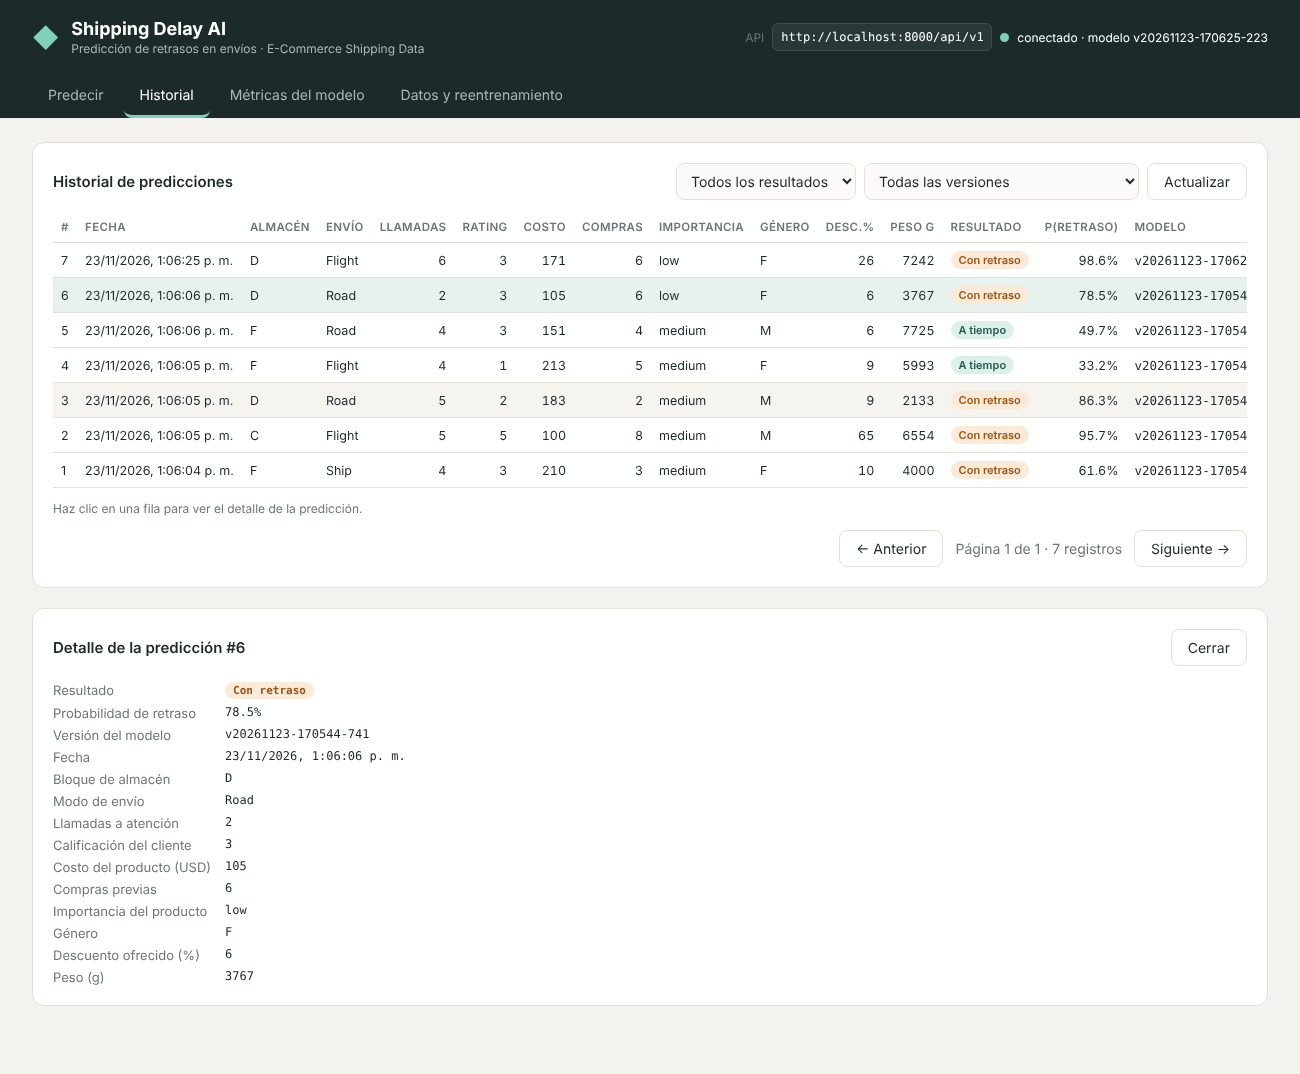
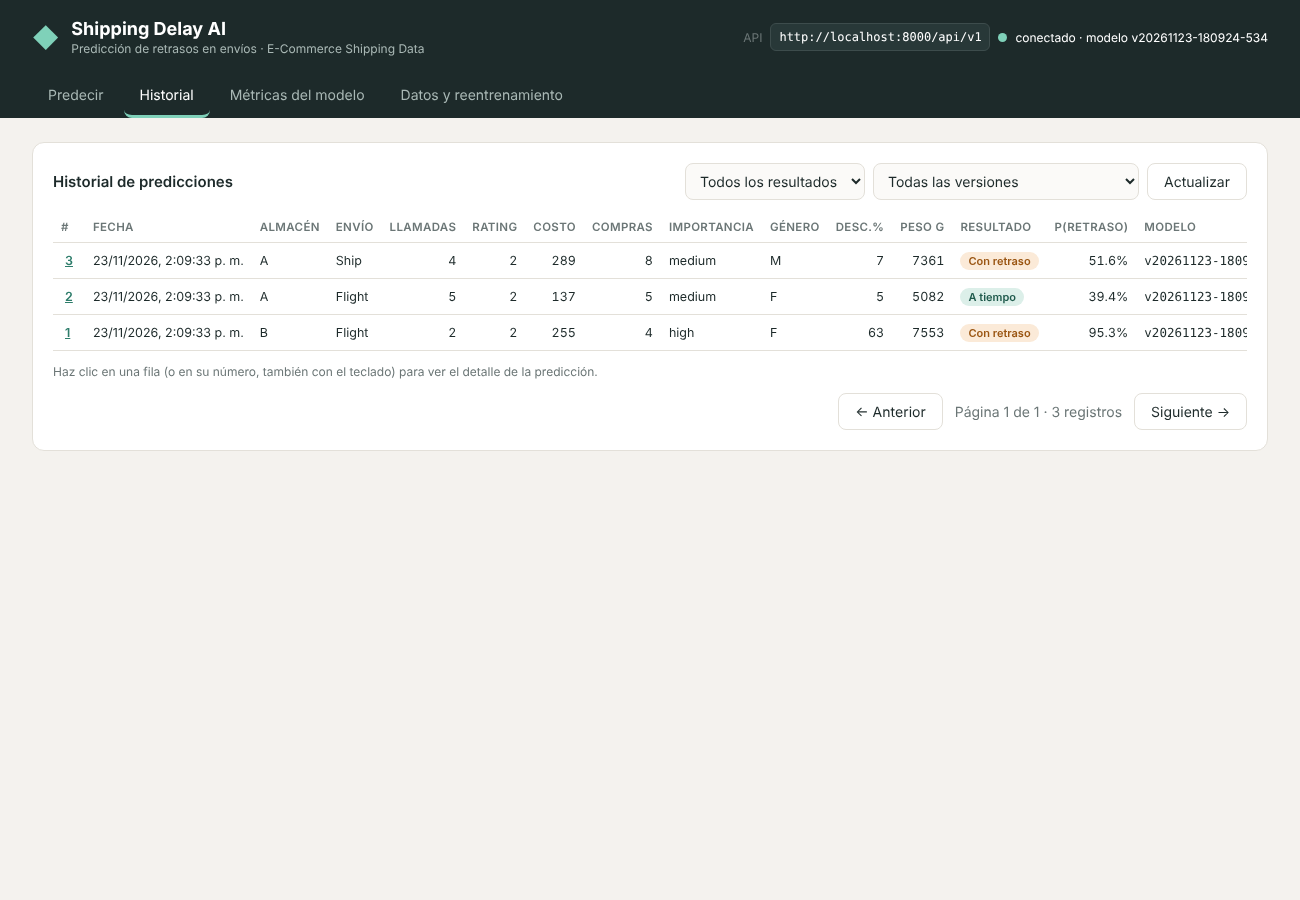
fix(ui): aplicar sugerencias de CodeRabbit del PR #2
- Un fallo de GET /models ya no bloquea la carga del historial
- Contadores de solicitud: las respuestas viejas del historial, de las versiones
  y del detalle se descartan y no sobrescriben la selección actual
- Cerrar la tarjeta invalida la consulta de detalle pendiente
- Botón por fila para abrir el detalle con el teclado (foco visible)
- Campos del historial escapados antes de insertarlos en el HTML

Claude-Session: https://claude.ai/code/session_01WiA6HKDh5mPVCdvfBkjE7G

diff --git a/frontend/app.js b/frontend/app.js
@@ -88,20 +88,26 @@ $("#randomBtn").addEventListener("click", () => {
 });
 
 // ---------------------------------------------------------------- historial  (GET /predictions)
+// Contadores de solicitud: solo la respuesta más reciente actualiza la pantalla.
+let histSeq = 0, versionSeq = 0, detailSeq = 0;
+
 async function loadHistory() {
+  const seq = ++histSeq;
+  loadVersionOptions();                       // independiente: un fallo de /models no bloquea el historial
   const filter = $("#histFilter").value;
   const version = $("#histVersion").value;
   const q = `?limit=${PAGE}&offset=${histOffset}${filter !== "" ? `&predicted_class=${filter}` : ""}` +
     (version ? `&model_version=${encodeURIComponent(version)}` : "");
   try {
-    await loadVersionOptions();
     const h = await api(`/predictions${q}`);
+    if (seq !== histSeq) return;              // llegó una consulta más nueva
     const tb = $("#histTable tbody");
     tb.innerHTML = h.items.length ? h.items.map((p) => `<tr data-id="${p.id}">
-      <td>${p.id}</td><td>${fmtDate(p.created_at)}</td><td>${p.warehouse_block}</td><td>${p.mode_of_shipment}</td>
+      <td><button type="button" class="link-btn" data-id="${p.id}" aria-label="Ver detalle de la predicción ${p.id}">${p.id}</button></td>
+      <td>${fmtDate(p.created_at)}</td><td>${esc(p.warehouse_block)}</td><td>${esc(p.mode_of_shipment)}</td>
       <td class="num">${p.customer_care_calls}</td><td class="num">${p.customer_rating}</td>
       <td class="num">${p.cost_of_the_product}</td><td class="num">${p.prior_purchases}</td>
-      <td>${p.product_importance}</td><td>${p.gender}</td><td class="num">${p.discount_offered}</td>
+      <td>${esc(p.product_importance)}</td><td>${esc(p.gender)}</td><td class="num">${p.discount_offered}</td>
       <td class="num">${p.weight_in_gms}</td><td>${labelPill(p.predicted_class, p.predicted_label)}</td>
       <td class="num">${pct(p.probability_delay)}</td><td><code>${esc(p.model_version)}</code></td></tr>`).join("")
       : `<tr><td colspan="15" class="empty">Aún no hay predicciones.</td></tr>`;
@@ -109,21 +115,30 @@ async function loadHistory() {
     $("#pageInfo").textContent = `Página ${page} de ${pages} · ${h.total} registros`;
     $("#prevPage").disabled = histOffset === 0;
     $("#nextPage").disabled = histOffset + PAGE >= h.total;
-  } catch (err) { toast(`Error: ${err.message}`, true); }
+  } catch (err) { if (seq === histSeq) toast(`Error: ${err.message}`, true); }
 }
+
 // Opciones del filtro de versión  (GET /models)
 async function loadVersionOptions() {
-  const sel = $("#histVersion"), current = sel.value;
-  const all = await api("/models");
-  sel.innerHTML = `<option value="">Todas las versiones</option>` +
-    all.map((m) => `<option value="${esc(m.version)}">${esc(m.version)} · ${esc(m.status)}</option>`).join("");
-  sel.value = current;
+  const seq = ++versionSeq;
+  try {
+    const all = await api("/models");
+    if (seq !== versionSeq) return;
+    const sel = $("#histVersion"), current = sel.value;   // se lee al llegar la respuesta: conserva la última elección
+    sel.innerHTML = `<option value="">Todas las versiones</option>` +
+      all.map((m) => `<option value="${esc(m.version)}">${esc(m.version)} · ${esc(m.status)}</option>`).join("");
+    sel.value = all.some((m) => m.version === current) ? current : "";
+  } catch (err) {
+    if (seq === versionSeq) toast(`No se pudieron cargar las versiones: ${err.message}`, true);
+  }
 }
 
 // Detalle de una predicción  (GET /predictions/{id})
 async function showDetail(id) {
+  const seq = ++detailSeq;
   try {
     const p = await api(`/predictions/${id}`);
+    if (seq !== detailSeq) return;            // se pidió otra fila o se cerró la tarjeta
     document.querySelectorAll("#histTable tbody tr").forEach((tr) => tr.classList.toggle("selected", tr.dataset.id === String(id)));
     $("#detailTitle").textContent = `Detalle de la predicción #${p.id}`;
     const rows = [
@@ -140,13 +155,18 @@ async function showDetail(id) {
     $("#detailBody").innerHTML = rows.map(([k, v]) => `<dt>${k}</dt><dd>${v}</dd>`).join("");
     $("#detailCard").hidden = false;
     $("#detailCard").scrollIntoView({ behavior: "smooth", block: "nearest" });
-  } catch (err) { toast(`Error: ${err.message}`, true); }
+  } catch (err) { if (seq === detailSeq) toast(`Error: ${err.message}`, true); }
 }
+// Clic en cualquier parte de la fila (puntero) o Enter/Espacio en el botón del número (teclado)
 $("#histTable tbody").addEventListener("click", (e) => {
-  const tr = e.target.closest("tr[data-id]");
-  if (tr) showDetail(tr.dataset.id);
+  const el = e.target.closest("[data-id]");
+  if (el) showDetail(el.dataset.id);
 });
-$("#detailClose").addEventListener("click", () => { $("#detailCard").hidden = true; });
+$("#detailClose").addEventListener("click", () => {
+  detailSeq++;                                // invalida una consulta de detalle pendiente
+  $("#detailCard").hidden = true;
+  document.querySelectorAll("#histTable tbody tr.selected").forEach((tr) => tr.classList.remove("selected"));
+});
 $("#histVersion").addEventListener("change", () => { histOffset = 0; loadHistory(); });
 
 $("#histRefresh").addEventListener("click", loadHistory);

diff --git a/frontend/styles.css b/frontend/styles.css
@@ -111,3 +111,6 @@ td.num, th.num { text-align: right; font-variant-numeric: tabular-nums; }
 #histTable tbody tr[data-id] { cursor: pointer; }
 #histTable tbody tr[data-id]:hover { background: #f6f4ef; }
 #histTable tbody tr.selected { background: #e7f2ee; }
+.link-btn { background: none; border: 0; padding: 2px 4px; color: var(--brand); font-weight: 600; text-decoration: underline;
+  border-radius: 4px; cursor: pointer; }
+.link-btn:focus-visible { outline: 2px solid var(--brand); outline-offset: 2px; }

diff --git a/frontend/index.html b/frontend/index.html
@@ -117,7 +117,7 @@
             <tbody></tbody>
           </table>
         </div>
-        <p class="muted">Haz clic en una fila para ver el detalle de la predicción.</p>
+        <p class="muted">Haz clic en una fila (o en su número, también con el teclado) para ver el detalle de la predicción.</p>
         <div class="pager">
           <button class="ghost" id="prevPage">← Anterior</button>
           <span id="pageInfo"></span>
